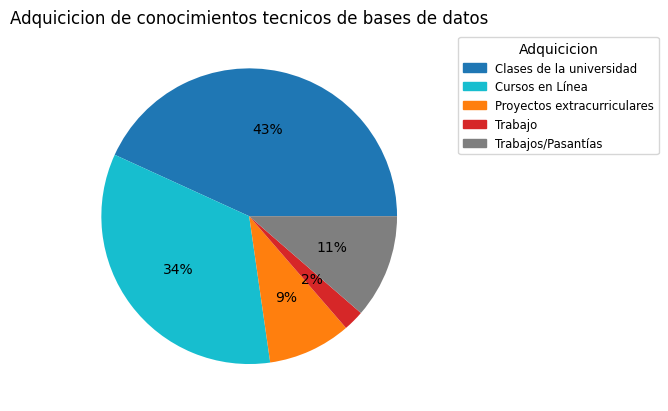
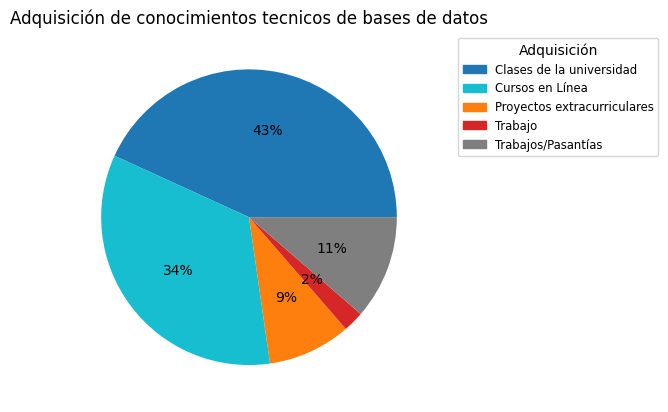
Areas

diff --git a/make_graphics.py b/make_graphics.py
@@ -35,7 +35,7 @@ fre_aprendizaje_nueva_tec_es = []
 interes_estudiates = []
 interes_para_trabajar = []
 
-# Adquicicion de conocimientos
+# Adquisición de conocimientos
 lenguajes_progra = []
 conocimientos_tecnicos_generales = []
 bases_de_datos = []
@@ -63,6 +63,7 @@ centros_de_estudio = []
 
 # Bancos en los que ha trabajado
 bancos_laborados = []
+areas_de_desempenio = []
 
 """
 # Habilidades tecnicas
@@ -81,6 +82,10 @@ conocimientos_basico_redes = []
 operaciones_en_bases = []
 administracion_bases = []
 """
+
+# Empleados con certificados
+empleados_crt = []
+certificados = []
 
 # Bases de datos mas usdadas
 bases_mas_usadas = []
@@ -120,7 +125,7 @@ for individuo in estudiantes:
     interes_estudiates.append(individuo["¿Qué tanto le interesa trabajar en el sector bancario?"])
     interes_para_trabajar.append(individuo["Al momento de buscar empleo ¿qué le interesa más?"])
 
-    # Adquicicion de conocimientos
+    # Adquisición de conocimientos
     lenguajes_progra = lenguajes_progra + individuo["¿Cómo ha adquirido sus conocimientos en los lenguajes de programación preguntados anteriormente?\xa0\xa0\xa0(Puede escoger más de una opción)"].split(";")
     conocimientos_tecnicos_generales = conocimientos_tecnicos_generales + individuo["¿Cómo ha adquirido sus conocimientos sobre los conceptos de la pregunta anterior?\xa0(Puede escoger más de una opción)"].split(";")
     bases_de_datos = bases_de_datos + individuo["¿Cómo ha adquirido sus conocimientos en los gestores de base de datos preguntados anteriormente?\xa0\xa0(Puede escoger más de una opción)"].split(";")
@@ -149,6 +154,14 @@ for individuo in empleados_de_bancos:
 
     # Bancos en los que ha trabajados
     bancos_laborados = bancos_laborados + individuo["Entidad bancaria en la cual trabaja o ha trabajado:\xa0\xa0(Puede escoger más de una opción)"].split(";")
+
+    if individuo["¿Se ha certificado en alguna área perteneciente a la carrera de Ingeniería en Sistemas?"] == "Sí":
+        empleados_crt.append(individuo)
+        certificados = certificados + individuo["Indique en cuáles áreas se ha certificado:\xa0(Puede escoger más de una opción)"].split(";")
+
+    # Areas de desempeño
+    areas_de_desempenio = areas_de_desempenio + individuo["¿En qué área se desempeña o desempeñó en el sector bancario?\xa0\xa0(Puede escoger más de una opción)"].split(";")
+
 
 """
     # Habilidades tecnicas
@@ -399,22 +412,30 @@ plt.savefig("./fig/bancos_laborados.png", dpi=None, facecolor='w', edgecolor='w'
         metadata=None)
 plt.clf()
 
-############ Adquicicion de conocimientos ############
+############ Adquisición de conocimientos ############
+totales = []
+totales = lenguajes_progra + conocimientos_tecnicos_generales + bases_de_datos + sistemas_operativos
 
 lenguajes_progra = np.array(lenguajes_progra)
 conocimientos_tecnicos_generales = np.array(conocimientos_tecnicos_generales)
 bases_de_datos = np.array(bases_de_datos)
 sistemas_operativos = np.array(sistemas_operativos)
 
+totales = np.array(totales)
+
 lenguajes_progra_set, lenguajes_progra_count = np.unique(lenguajes_progra, return_counts=True)
 conocimientos_tecnicos_generales_set, conocimientos_tecnicos_generales_count = np.unique(conocimientos_tecnicos_generales, return_counts=True)
 bases_de_datos_set, bases_de_datos_count = np.unique(bases_de_datos, return_counts=True)
 sistemas_operativos_set, sistemas_operativos_count = np.unique(sistemas_operativos, return_counts=True)
 
+totales_set, totales_count = np.unique(totales, return_counts=True)
+
 lenguajes_por = (lenguajes_progra_count / len(estudiantes)) * 100
 generales_por = (conocimientos_tecnicos_generales_count / len(estudiantes)) * 100
 bases_por = (bases_de_datos_count / len(estudiantes)) * 100
 sistemas_por = (sistemas_operativos_count / len(estudiantes)) * 100
+
+totales_por = ((totales_count / 4) / len(estudiantes)) * 100
 
 lenguajes_df = pd.DataFrame({
     "Lenguajes_adq": lenguajes_progra_set,
@@ -440,11 +461,18 @@ sistemas_df = pd.DataFrame({
     })
 sistemas_df = sistemas_df.drop(labels=0, axis=0)
 
+
+totales_df = pd.DataFrame({
+    "Totales_adq": totales_set,
+    "Porcentaje": totales_por
+    })
+totales_df = totales_df.drop(labels=0, axis=0)
+
 ### Lenguajes
 fig, ax = plt.subplots()
 ax.pie(lenguajes_df['Porcentaje'].tolist(), colors=['tab:blue', 'tab:cyan', 'tab:orange', 'tab:red', 'tab:gray'], autopct='%.0f%%' )
 
-plt.title("Adquicicion de conocimientos tecnicos de lenguajes de programación")
+plt.title("Adquisición de conocimientos tecnicos de lenguajes de programación")
 
 fontP = FontProperties()
 fontP.set_size('small')
@@ -453,7 +481,7 @@ cmap = dict(zip(lenguajes_df['Lenguajes_adq'].tolist(), ['tab:blue', 'tab:cyan',
 
 patches = [Patch(color=v, label=k) for k, v in cmap.items()]
 
-plt.legend(labels=lenguajes_df['Lenguajes_adq'].tolist(), handles=patches, title='Adquicicion', bbox_to_anchor=(1.05, 1), loc='upper left', prop=fontP)
+plt.legend(labels=lenguajes_df['Lenguajes_adq'].tolist(), handles=patches, title='Adquisición', bbox_to_anchor=(1.05, 1), loc='upper left', prop=fontP)
 
 plt.savefig("./fig/lenguajes_adq.png", dpi=None, facecolor='w', edgecolor='w',
         orientation='portrait', format=None,
@@ -465,7 +493,7 @@ plt.clf()
 fig, ax = plt.subplots()
 ax.pie(generales_df['Porcentaje'].tolist(), colors=['tab:blue', 'tab:cyan', 'tab:orange', 'tab:red', 'tab:gray', 'tab:green'], autopct='%.0f%%' )
 
-plt.title("Adquicicion de conocimientos tecnicos de generales")
+plt.title("Adquisición de conocimientos tecnicos de generales")
 
 fontP = FontProperties()
 fontP.set_size('small')
@@ -474,7 +502,7 @@ cmap = dict(zip(generales_df['Generales_adq'].tolist(), ['tab:blue', 'tab:cyan',
 
 patches = [Patch(color=v, label=k) for k, v in cmap.items()]
 
-plt.legend(labels=generales_df['Generales_adq'].tolist(), handles=patches, title='Adquicicion', bbox_to_anchor=(1.05, 1), loc='upper left', prop=fontP)
+plt.legend(labels=generales_df['Generales_adq'].tolist(), handles=patches, title='Adquisición', bbox_to_anchor=(1.05, 1), loc='upper left', prop=fontP)
 
 plt.savefig("./fig/generales_adq.png", dpi=None, facecolor='w', edgecolor='w',
         orientation='portrait', format=None,
@@ -486,7 +514,7 @@ plt.clf()
 fig, ax = plt.subplots()
 ax.pie(bases_df['Porcentaje'].tolist(), colors=['tab:blue', 'tab:cyan', 'tab:orange', 'tab:red', 'tab:gray'], autopct='%.0f%%' )
 
-plt.title("Adquicicion de conocimientos tecnicos de bases de datos")
+plt.title("Adquisición de conocimientos tecnicos de bases de datos")
 
 fontP = FontProperties()
 fontP.set_size('small')
@@ -495,7 +523,7 @@ cmap = dict(zip(bases_df['Bases_adq'].tolist(), ['tab:blue', 'tab:cyan', 'tab:or
 
 patches = [Patch(color=v, label=k) for k, v in cmap.items()]
 
-plt.legend(labels=bases_df['Bases_adq'].tolist(), handles=patches, title='Adquicicion', bbox_to_anchor=(1.05, 1), loc='upper left', prop=fontP)
+plt.legend(labels=bases_df['Bases_adq'].tolist(), handles=patches, title='Adquisición', bbox_to_anchor=(1.05, 1), loc='upper left', prop=fontP)
 
 plt.savefig("./fig/bases_adq.png", dpi=None, facecolor='w', edgecolor='w',
         orientation='portrait', format=None,
@@ -507,7 +535,7 @@ plt.clf()
 fig, ax = plt.subplots()
 ax.pie(sistemas_df['Porcentaje'].tolist(), colors=['tab:blue', 'tab:cyan', 'tab:orange', 'tab:red', 'tab:gray', 'tab:green', 'tab:purple'], autopct='%.0f%%' )
 
-plt.title("Adquicicion de conocimientos tecnicos de Sistemas Operativos")
+plt.title("Adquisición de conocimientos tecnicos de Sistemas Operativos")
 
 fontP = FontProperties()
 fontP.set_size('small')
@@ -516,7 +544,7 @@ cmap = dict(zip(sistemas_df['Sistemas_adq'].tolist(), ['tab:blue', 'tab:cyan', '
 
 patches = [Patch(color=v, label=k) for k, v in cmap.items()]
 
-plt.legend(labels=sistemas_df['Sistemas_adq'].tolist(), handles=patches, title='Adquicicion', bbox_to_anchor=(1.05, 1), loc='upper left', prop=fontP)
+plt.legend(labels=sistemas_df['Sistemas_adq'].tolist(), handles=patches, title='Adquisición', bbox_to_anchor=(1.05, 1), loc='upper left', prop=fontP)
 
 plt.savefig("./fig/sistemas_adq.png", dpi=None, facecolor='w', edgecolor='w',
         orientation='portrait', format=None,
@@ -525,9 +553,115 @@ plt.savefig("./fig/sistemas_adq.png", dpi=None, facecolor='w', edgecolor='w',
 plt.clf()
 
 
+### Totales
+fig, ax = plt.subplots()
+ax.bar('Totales_adq', 'Porcentaje', data=totales_df, color=['tab:blue', 'tab:cyan', 'tab:orange', 'tab:red', 'tab:gray', 'tab:green', 'tab:purple', 'tab:pink', 'm'])
+
+plt.tick_params(
+    axis='x',        
+    which='both',   
+    bottom=False,  
+    top=False,    
+    labelbottom=False)
+
+plt.title("Adquisición de conocimientos tecnicos totales")
+
+fontP = FontProperties()
+fontP.set_size('small')
+
+cmap = dict(zip(totales_df['Totales_adq'].tolist(), ['tab:blue', 'tab:cyan', 'tab:orange', 'tab:red', 'tab:gray', 'tab:green', 'tab:purple', 'tab:pink', 'm']))
+
+patches = [Patch(color=v, label=k) for k, v in cmap.items()]
+
+plt.legend(labels=totales_df['Totales_adq'].tolist(), handles=patches, title='Adquisición', bbox_to_anchor=(1.05, 1), loc='upper left', prop=fontP)
+
+plt.savefig("./fig/totales_adq.png", dpi=None, facecolor='w', edgecolor='w',
+        orientation='portrait', format=None,
+        transparent=False, bbox_inches='tight', pad_inches=0.1,
+        metadata=None)
+plt.clf()
 
 
+############ Certificaciones de empleados ############
+certificados = np.array(certificados)
 
+certificados_set, certificados_count = np.unique(certificados, return_counts=True)
+
+certificados_pro = (certificados_count / len(empleados_crt)) * 100
+
+certificados_df = pd.DataFrame({
+    'Certificados': certificados_set,
+    'Porcentaje': certificados_pro
+    })
+certificados_df = certificados_df.drop(labels=0, axis=0)
+
+fig, ax = plt.subplots()
+ax.bar('Certificados', 'Porcentaje', data=certificados_df, color=['tab:blue', 'tab:cyan', 'tab:orange', 'tab:red', 'tab:gray', 'tab:green', 'tab:purple', 'tab:pink', 'm'])
+
+plt.tick_params(
+    axis='x',        
+    which='both',   
+    bottom=False,  
+    top=False,    
+    labelbottom=False)
+
+plt.title("Adquisición de conocimientos tecnicos totales")
+
+fontP = FontProperties()
+fontP.set_size('small')
+
+cmap = dict(zip(certificados_df['Certificados'].tolist(), ['tab:blue', 'tab:cyan', 'tab:orange', 'tab:red', 'tab:gray', 'tab:green', 'tab:purple', 'tab:pink', 'm']))
+
+patches = [Patch(color=v, label=k) for k, v in cmap.items()]
+
+plt.legend(labels=certificados_df['Certificados'].tolist(), handles=patches, title='Certificados', bbox_to_anchor=(1.05, 1), loc='upper left', prop=fontP)
+
+plt.savefig("./fig/certificados.png", dpi=None, facecolor='w', edgecolor='w',
+        orientation='portrait', format=None,
+        transparent=False, bbox_inches='tight', pad_inches=0.1,
+        metadata=None)
+plt.clf()
+
+
+############ Areas de trabajo de empleados ############
+areas_de_desempenio = np.array(areas_de_desempenio)
+
+areas_set, areas_count = np.unique(areas_de_desempenio, return_counts=True)
+
+areas_pro = (areas_count / len(empleados_de_bancos)) * 100
+
+areas_df = pd.DataFrame({
+    'Areas': areas_set,
+    'Porcentaje': areas_pro
+    })
+areas_df = areas_df.drop(labels=0, axis=0)
+
+fig, ax = plt.subplots()
+ax.bar('Areas', 'Porcentaje', data=areas_df, color=['tab:blue', 'tab:cyan', 'tab:orange', 'tab:red', 'tab:gray', 'tab:green', 'tab:purple', 'tab:pink', 'm'])
+
+plt.tick_params(
+    axis='x',        
+    which='both',   
+    bottom=False,  
+    top=False,    
+    labelbottom=False)
+
+plt.title("Areas de desempeño de empleados")
+
+fontP = FontProperties()
+fontP.set_size('small')
+
+cmap = dict(zip(areas_df['Areas'].tolist(), ['tab:blue', 'tab:cyan', 'tab:orange', 'tab:red', 'tab:gray', 'tab:green', 'tab:purple', 'tab:pink', 'm']))
+
+patches = [Patch(color=v, label=k) for k, v in cmap.items()]
+
+plt.legend(labels=areas_df['Areas'].tolist(), handles=patches, title='Areas', bbox_to_anchor=(1.05, 1), loc='upper left', prop=fontP)
+
+plt.savefig("./fig/areas_de_desempenio.png", dpi=None, facecolor='w', edgecolor='w',
+        orientation='portrait', format=None,
+        transparent=False, bbox_inches='tight', pad_inches=0.1,
+        metadata=None)
+plt.clf()
 
 
 
